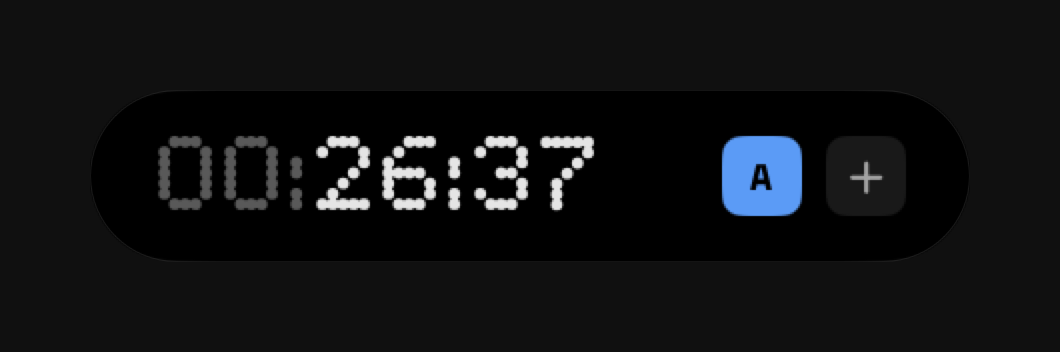
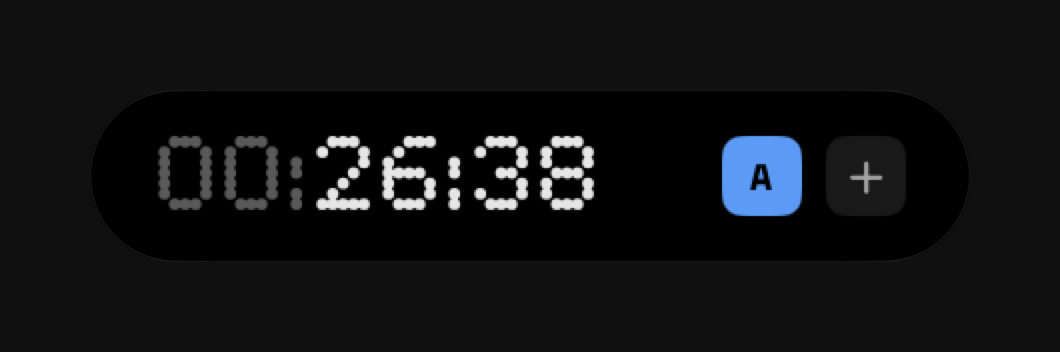
SelfControl 1.0.3: a build script that stops deleting the app, and one version
build.sh changed directory to a path that has not existed for some time,
carried no set -e, and then ran rm -rf /Applications/SelfControl.app
whatever had happened above it. A failed build deleted the working copy and
installed nothing in its place.

The menu bar panel took its position straight from the status item's frame
with no clamp. An item near the right edge pushed the panel half off it,
and a button whose window frame was not ready yet reported a midpoint
thousands of points to the left, where the window server has no display to
draw into, so the panel was created and never appeared.

One version, not three. It was written out longhand in Info.plist, in
MARKETING_VERSION, and again in release.sh, and they had drifted: the app
reported one number while the daemon version check compared another.
Info.plist interpolates MARKETING_VERSION now, the build phase writes
version-header.h from it, and release.sh reads it back out.

README
- The tagline was mine rather than the app's, and an aphorism. Replaced in
  both places it lived, the README and the brand block drawn into hero.png.
- Added the Permissions section the page was missing. The login item is the
  whole permission story here and it was buried in a paragraph of Install.
- Rewrote the prose that leaned on a punchline where a reason belonged.

Images
- Figure canvases are constants rather than the measured size of a capture,
  because a key window gets a wider drop shadow than an inactive one and a
[…]

Changed region(s): [[0.4981, 0.375, 0.5604, 0.5938]]

diff --git a/Tools/Screenshots/ArticleImages.swift b/Tools/Screenshots/ArticleImages.swift
@@ -196,7 +196,7 @@ do {
         }
         draw("SelfControl", at: CGPoint(x: 300, y: blockTop + 2), canvasHeight: canvas.height,
              size: 64, weight: .semibold, color: ink)
-        draw("Block it now. Argue with it later.", at: CGPoint(x: 304, y: blockTop + 88),
+        draw("Blocks you cannot turn off early.", at: CGPoint(x: 304, y: blockTop + 88),
              canvasHeight: canvas.height, size: 30, weight: .regular, color: inkSoft)
 
         // The panel is fitted into what the brand block leaves, then the pill
@@ -230,17 +230,24 @@ do {
     write(image, to: outDirectory.appendingPathComponent("hero.png"))
 }
 
-// The panel on its own, at its own size, for the sections that need one.
+// The panel on its own, centred in a fixed canvas, for the sections that need
+// one.
+//
+// The canvas is a constant rather than the capture's own size plus a margin.
+// macOS draws a key window a wider drop shadow than an inactive one, and a
+// capture carries that shadow as transparent margin, so sizing the canvas off
+// the measured content gave a different figure size from one run to the next.
+// Fixing the canvas and centring inside it makes the output the same every
+// time, and a wider shadow just sits further into the margin.
+let panelCanvas = CGSize(width: 1178, height: 1038)
 for name in ["idle", "blocking", "settings"] {
     let capture = raw(name)
-    let margin: CGFloat = 120
-    let canvasSize = CGSize(width: capture.content.width + margin * 2,
-                            height: capture.content.height + margin * 2)
-    let image = ground(Int(canvasSize.width), Int(canvasSize.height))
+    let image = ground(Int(panelCanvas.width), Int(panelCanvas.height))
     withCanvas(image) {
-        let rect = CGRect(x: margin, y: margin,
+        let rect = CGRect(x: (panelCanvas.width - capture.content.width) / 2,
+                          y: (panelCanvas.height - capture.content.height) / 2,
                           width: capture.content.width, height: capture.content.height)
-        place(capture, content: rect, canvasHeight: canvasSize.height, interpolation: .none)
+        place(capture, content: rect, canvasHeight: panelCanvas.height, interpolation: .none)
     }
     write(image, to: outDirectory.appendingPathComponent(name + ".png"))
 }

diff --git a/SwiftUI/Views/TimerPillView.swift b/SwiftUI/Views/TimerPillView.swift
@@ -51,9 +51,11 @@ struct TimerPillView: View {
         .background(Capsule().fill(Color.black))
         .clipShape(Capsule())
         .contentTransition(.numericText(countsDown: true))
-        .animation(.easeOut(duration: 0.15), value: timer.hours)
-        .animation(.easeOut(duration: 0.15), value: timer.minutes)
-        .animation(.easeOut(duration: 0.15), value: timer.seconds)
+        // Same reason as the panel's digits: a demo capture must not catch a
+        // roll in progress.
+        .animation(SCUIUtilities.demoIsActive() ? nil : .easeOut(duration: 0.15), value: timer.hours)
+        .animation(SCUIUtilities.demoIsActive() ? nil : .easeOut(duration: 0.15), value: timer.minutes)
+        .animation(SCUIUtilities.demoIsActive() ? nil : .easeOut(duration: 0.15), value: timer.seconds)
         .offset(x: shakeOffset)
         .onTapGesture {
             NotificationCenter.default.post(

diff --git a/SwiftUI/Views/MenuBarContentView.swift b/SwiftUI/Views/MenuBarContentView.swift
@@ -261,7 +261,10 @@ struct MenuBarContentView: View {
                 .tracking(64 * 0.04)
                 .foregroundColor(color.opacity(dimmed ? 0.35 : 1.0))
                 .contentTransition(.numericText(countsDown: true))
-                .animation(.easeOut(duration: 0.15), value: value)
+                // No roll under the screenshot pipeline. The capture lands at
+                // an arbitrary moment, and a digit caught halfway through the
+                // 150ms transition photographs as a smear.
+                .animation(SCUIUtilities.demoIsActive() ? nil : .easeOut(duration: 0.15), value: value)
 
             Text(label)
                 .font(.spaceMono(.regular, size: 11))

diff --git a/README.md b/README.md
@@ -5,7 +5,7 @@
 <h1 align="center">SelfControl</h1>
 
 <p align="center">
-  Block it now, argue with it later. Pick a list and a length, start the block, and the sites are gone until the timer runs out. Quitting the app will not bring them back, and neither will deleting it or restarting the Mac.
+  Pick a list of sites and a length, start the block, and those sites are gone until the timer runs out. Quitting the app will not bring them back, and neither will deleting it or restarting the Mac.
 </p>
 
 <p align="center">
@@ -26,8 +26,9 @@ stop being an app at the moment it matters. Starting a block writes the rules
 into the system's own hosts file and hands the clock to a background helper.
 The app is then just a window onto something that is already happening.
 
-This is a fork. The blocking is upstream's, and it is the part that has been
-right for fifteen years. What is new here is everything you look at.
+This is a fork, and the blocking is upstream's: that part has been right for
+fifteen years and is not worth rewriting. What is new here is everything you
+look at.
 
 ## Install
 
@@ -48,13 +49,12 @@ Requires macOS 26.
   <img src="docs/images/idle.png" width="760" alt="The idle window: two mode chips, a dot-matrix duration readout at 45 minutes, a segmented slider and a Start Block button">
 </p>
 
-Drag the slider to a length, press Start Block, and that is the last decision
-you get to make about it. There is no pause, no cancel, and no unlock code kept
-somewhere clever. The only thing that ends a block early is the length of time
-you already chose.
+Drag the slider to a length and press Start Block. There is no pause button, no
+cancel, and no unlock code, because a blocker with a way out is a blocker you
+will use the way out on. What ends a block is the length you already chose.
 
-A block can be extended while it runs. It cannot be shortened. That asymmetry
-is the whole design.
+A block can be extended while it runs and it cannot be shortened, which is the
+one asymmetry the whole thing rests on.
 
 ## While it runs
 
@@ -62,10 +62,10 @@ is the whole design.
   <img src="docs/images/pill.png" width="560" alt="The floating pill: a dot-matrix countdown reading 00:26:36 with a mode badge and an extend button">
 </p>
 
-The window is not the point. Close it and a pill stays on screen with the
-countdown in it, the mode it is running, and a button that adds time. It sits
-at the desktop level by default, so it is there when you look for it and behind
-everything when you are working. Drag it wherever it belongs.
+Close the window and a pill stays on screen with the countdown in it, the mode
+it is running, and a button that adds time. It sits at the desktop level by
+default, so it is there when you look for it and behind everything while you
+work. Drag it wherever it belongs.
 
 A unit that has run out dims rather than disappearing. Under an hour the hours
 fade, under a minute the minutes go too, so the number that is still moving is
@@ -83,6 +83,21 @@ the evening, and switching is a click rather than an edit.
 
 Import fills a list from a preset rather than making you type one out: the
 usual distractions, news, or the adult sites.
+
+## Permissions
+
+Nothing in the usual privacy list. SelfControl asks for no camera, no
+microphone, no contacts, no screen recording and no accessibility, because
+blocking a website needs none of them.
+
+| What you use | What it asks for | Why |
+| --- | --- | --- |
+| Any block at all | An approved login item | The helper writes the hosts file and holds the clock, and macOS only lets an approved login item keep running once the app is closed |
+| Installing the helper | Your admin password, once | Writing to the system hosts file is a root operation |
+
+The login item is the whole permission story, and it is asked once rather than
+on every launch. Nothing leaves the machine: there is no account, no analytics
+and no network call in the app.
 
 ## Build it yourself
 

diff --git a/CHANGELOG.md b/CHANGELOG.md
@@ -1,5 +1,28 @@
 # Changelog
 
+## 1.0.3
+
+- **`build.sh` no longer uninstalls the app when the build fails.** It changed
+  directory to a path that has not existed for some time, carried no `set -e`,
+  and then ran `rm -rf /Applications/SelfControl.app` whatever had happened
+  above it. A failed build deleted the working copy and installed nothing in its
+  place. It now resolves its own directory, stops at the first error, and checks
+  it has something to install before it deletes anything.
+- **The menu bar panel cannot land off every display.** Its position came
+  straight from the status item's frame with no clamp, so an item near the right
+  edge pushed the panel half off it, and a button whose window frame was not
+  ready yet reported a midpoint thousands of points to the left. The window
+  server has nothing to draw into out there, so the panel was created and never
+  appeared. It is clamped to the visible frame of whichever screen the button is
+  on.
+- Issue templates sent anyone reporting a bug to upstream's wiki and discussion
+  board, and blank issues were switched off, so there was no way to report a bug
+  in this fork to this fork.
+- `Tools/Screenshots/make-docs-images.sh` regenerates every image in the README.
+  It photographs the panel and the floating pill through the window server and
+  composites them onto a flat ground, running against a fixture rather than your
+  blocklist, so no real block is installed and no password is asked for.
+
 ## 1.0.2
 
 - **Launch at login.** A toggle in Preferences, General, registered through

diff --git a/CONTRIBUTING.md b/CONTRIBUTING.md
@@ -17,6 +17,11 @@ There is no xcodegen here. `SelfControl.xcodeproj/project.pbxproj` is the source
 of truth, so a new Swift file has to be added through Xcode rather than by
 dropping it in a directory.
 
+The version lives in one place, `MARKETING_VERSION` in that same pbxproj.
+`Info.plist` interpolates it, a build phase writes `version-header.h` from it
+(which is why that file is gitignored), and `release.sh` reads it back out.
+It used to be written out longhand in all three, and they drifted.
+
 ## Where the two halves meet
 
 The blocking is Objective-C and it is upstream's: `AppController`, the daemon
